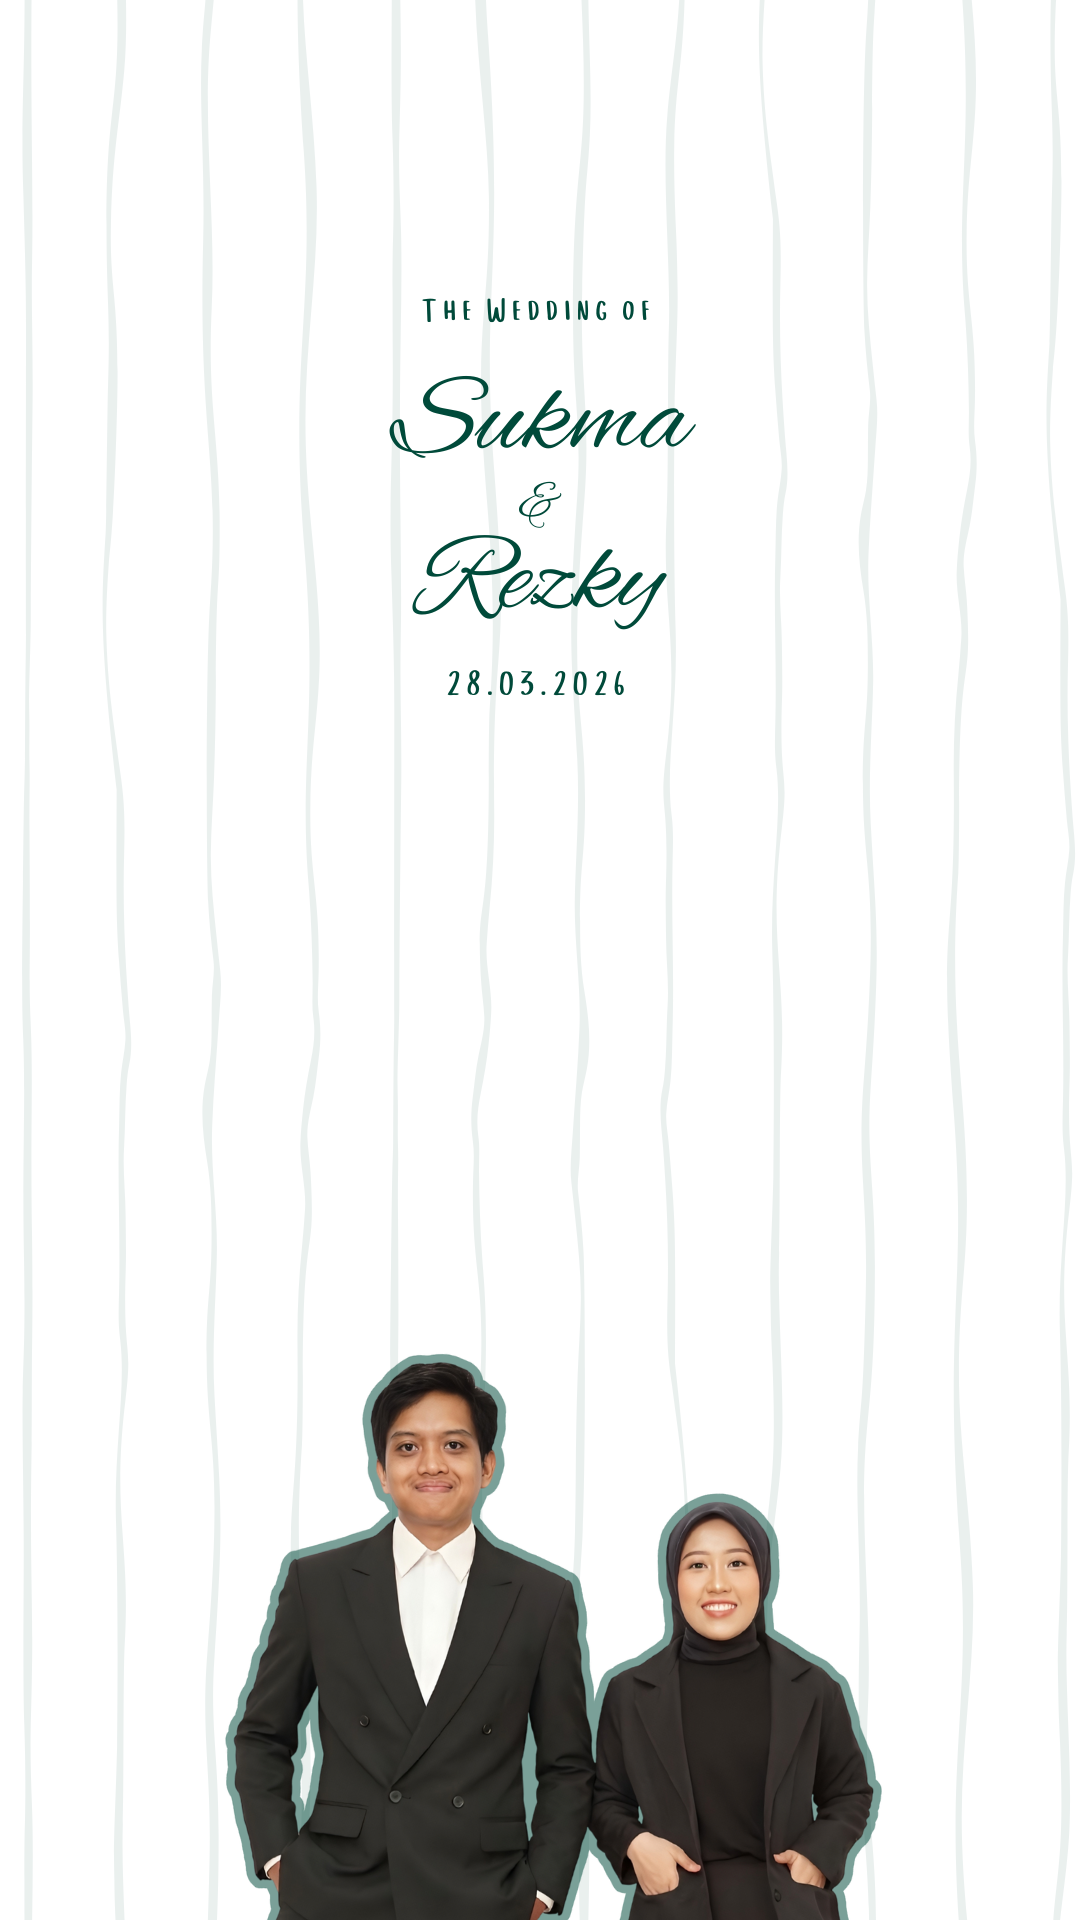
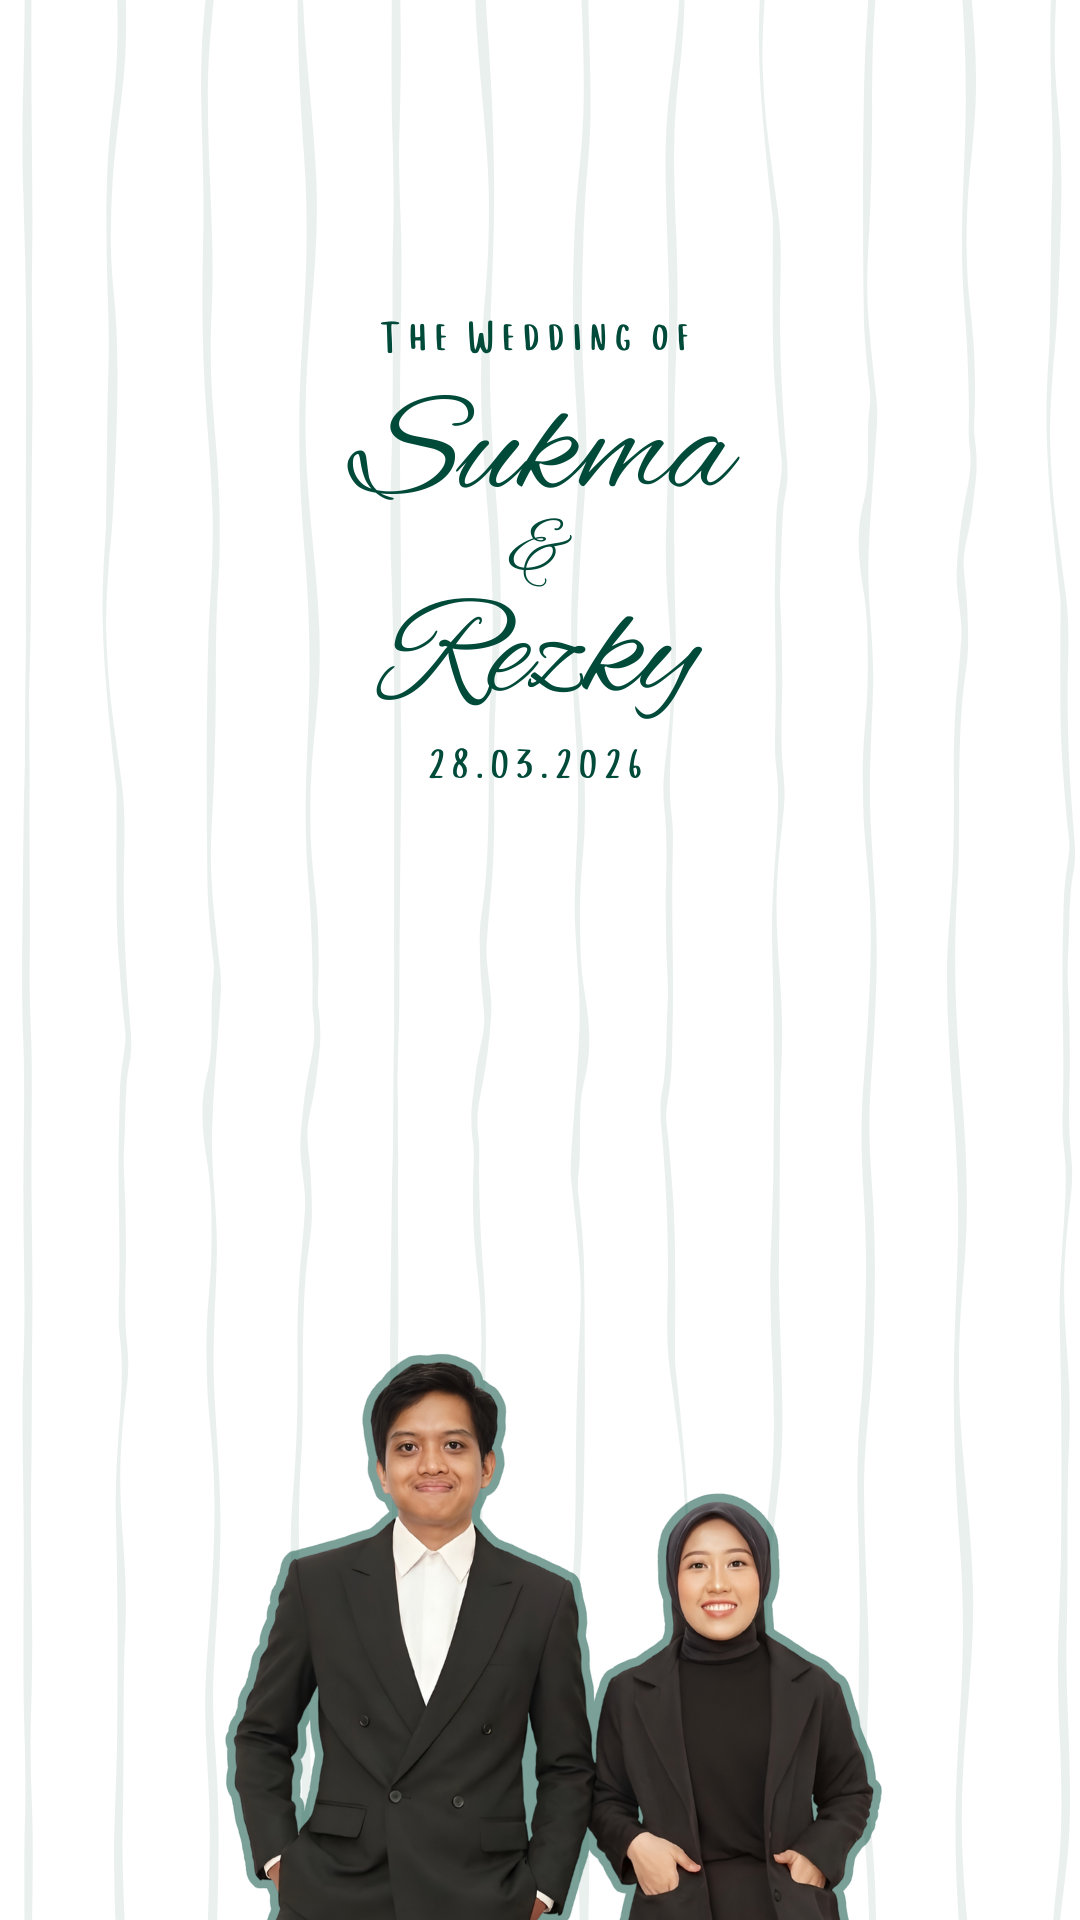
Fix cover

Changed region(s): [[0.3056, 0.1562, 0.6722, 0.4062]]

diff --git a/src/app/layout.tsx b/src/app/layout.tsx
@@ -23,14 +23,14 @@ const tangerine = Tangerine({ subsets: ["latin"], weight: ["400", "700"], variab
 
 export const metadata: Metadata = {
   title: "S&R Wedding Invitation",
-  description: "Wedding invitation for Sukma and Rezky on 28th March 2026",
+  description: "Wedding invitation of Sukma and Rezky on 28th March 2026",
   manifest: "/manifest.json",
   openGraph: {
     title: "S&R Wedding Invitation",
-    description: "Wedding invitation for Sukma and Rezky on 28th March 2026",
+    description: "Wedding invitation of Sukma and Rezky on 28th March 2026",
     images: [
       {
-        url: "/home-idn2.png",
+        url: "/home-idn3.png",
         width: 1200,
         height: 630,
         alt: "S&R Wedding Invitation",
@@ -40,8 +40,8 @@ export const metadata: Metadata = {
   twitter: {
     card: "summary_large_image",
     title: "S&R Wedding Invitation",
-    description: "Wedding invitation for Sukma and Rezky on 28th March 2026",
-    images: ["/home-idn2.png"],
+    description: "Wedding invitation of Sukma and Rezky on 28th March 2026",
+    images: ["/home-idn3.png"],
   },
 };
 
